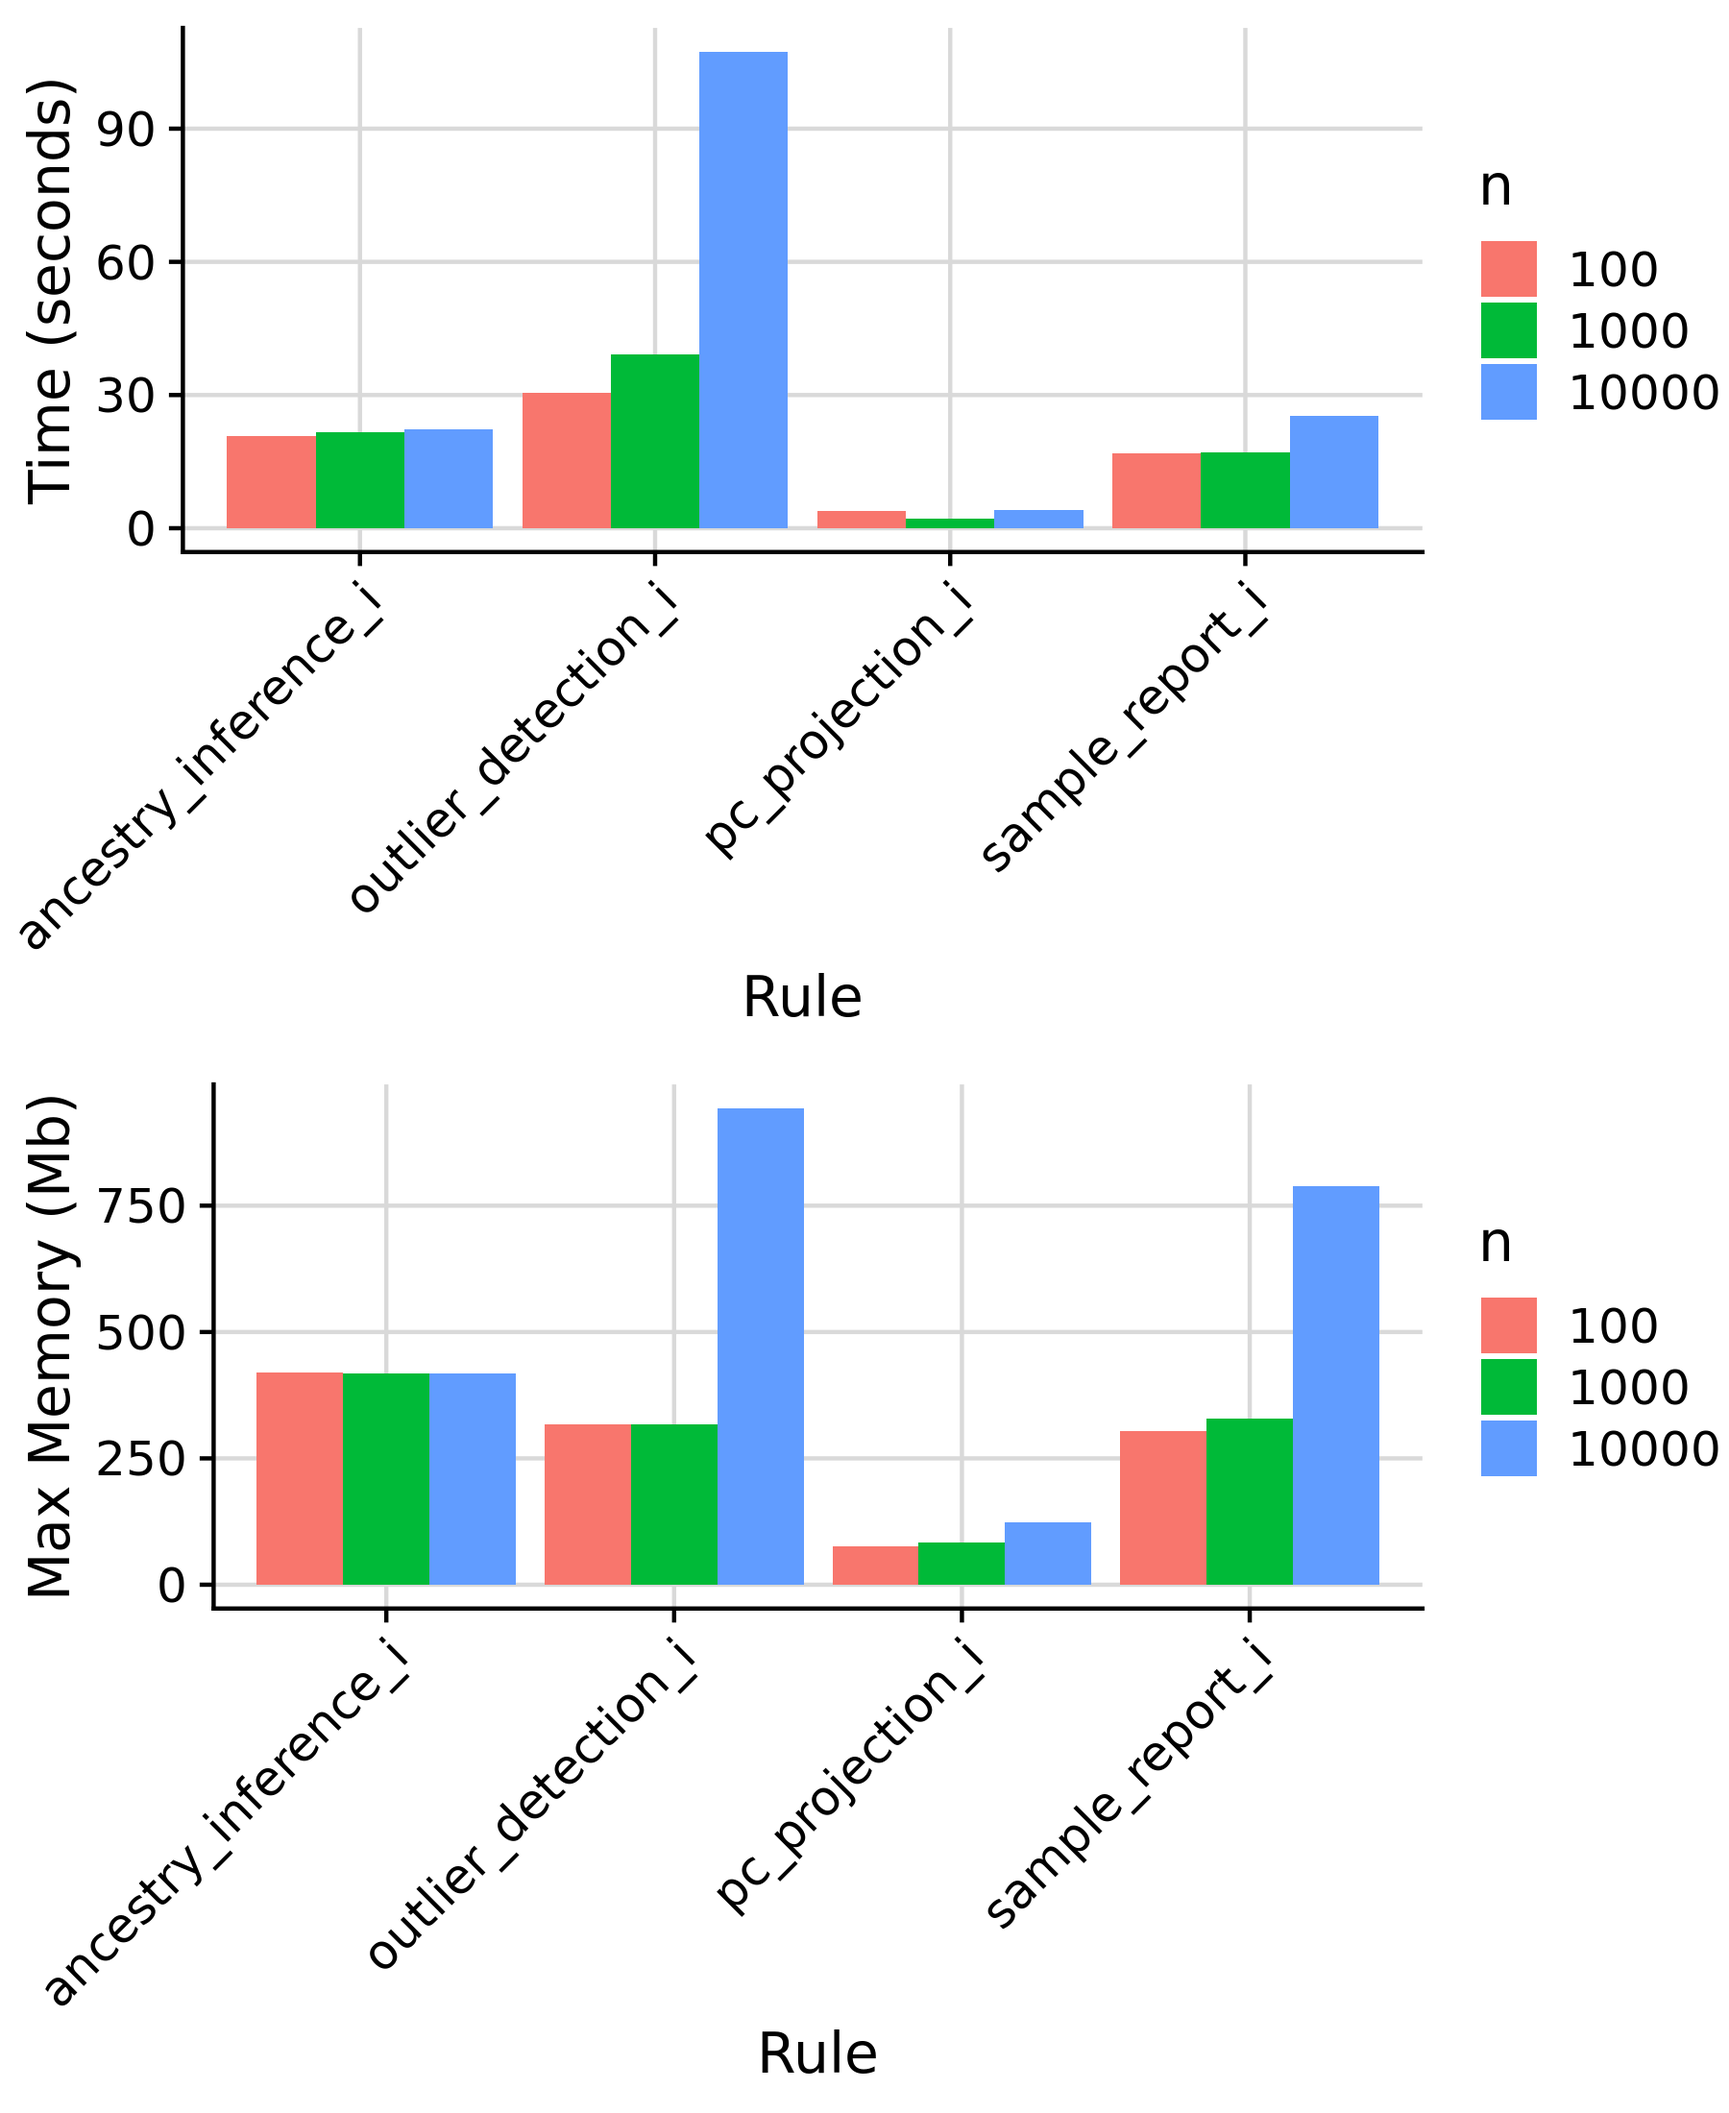
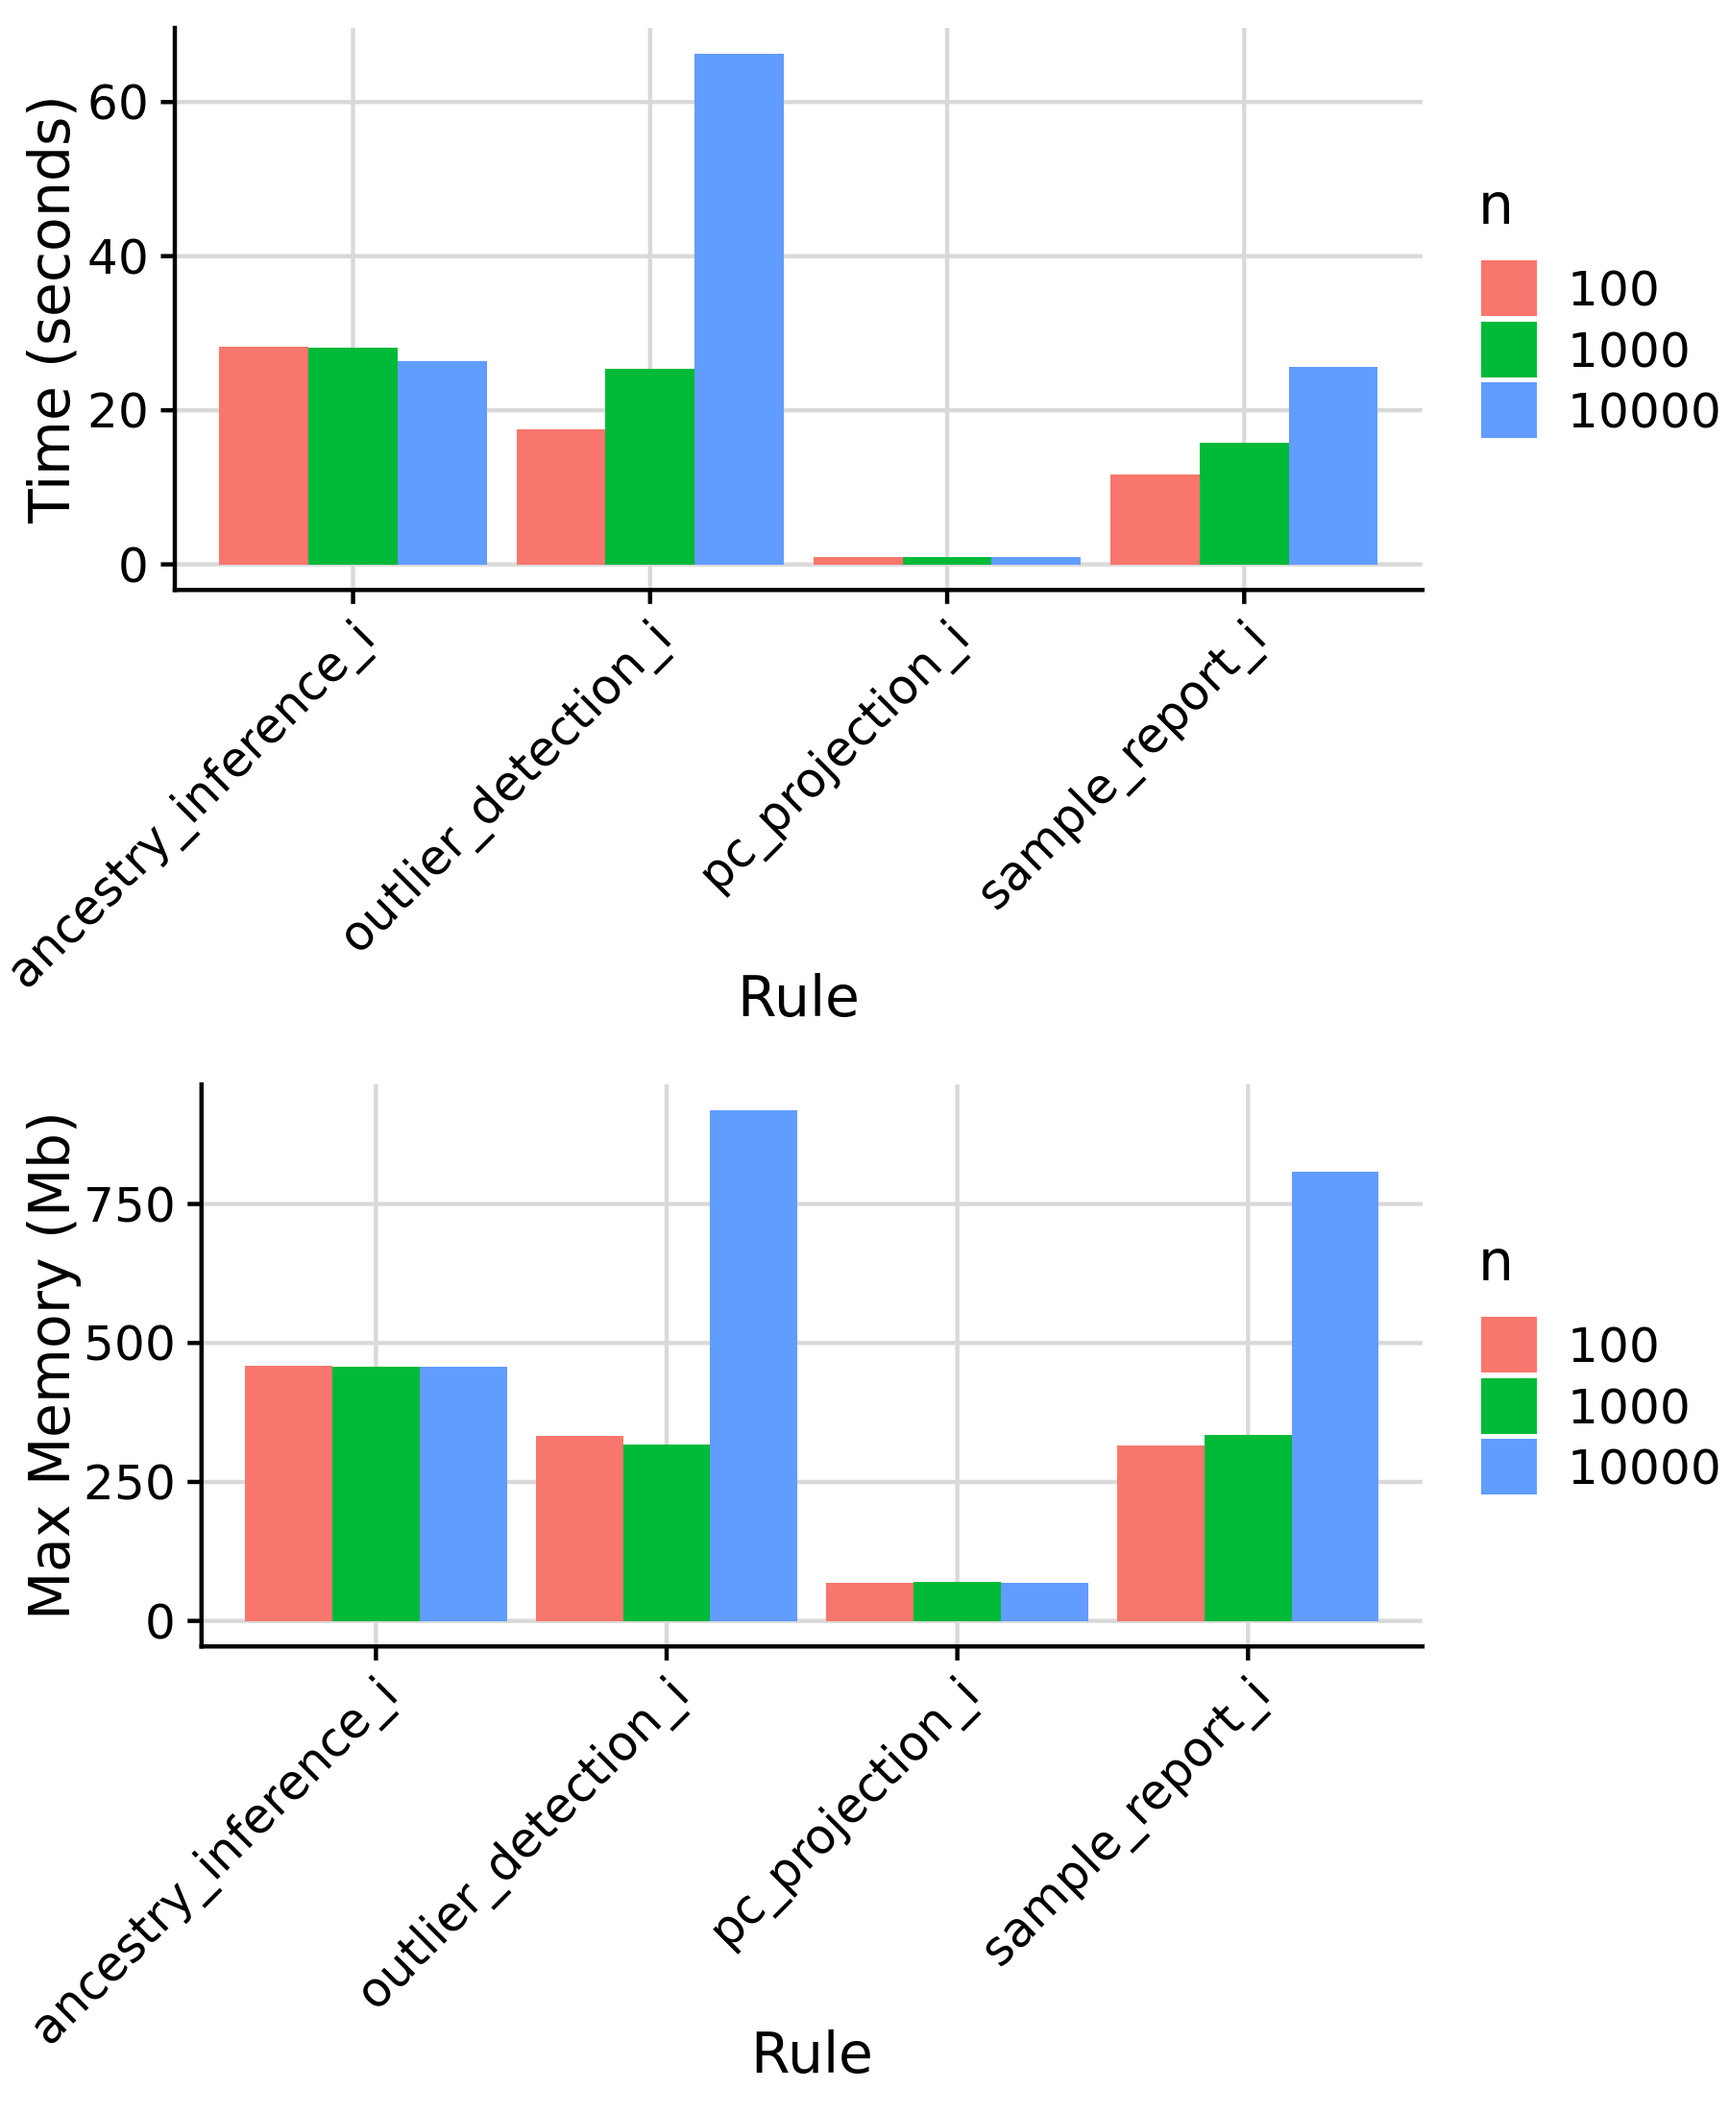
Updated computational benchmarks using new target scoring setup

diff --git a/docs/pipeline_benchmark.html b/docs/pipeline_benchmark.html
@@ -612,7 +612,10 @@ write.table(config, &#39;/users/k1806347/oliverpainfel/test/genopred_benchmark/i
 </div>
 <div id="run-pipeline" class="section level1">
 <h1>Run pipeline</h1>
-<pre class="bash"><code># N cores = 1
+<pre class="bash"><code>git describe --tags 
+#v2.2.5-4-ge70ffe7
+
+# N cores = 1
 snakemake --profile slurm -n --config ncores=1 --configfile=/users/k1806347/oliverpainfel/test/genopred_benchmark/input_data/config_ncores1.yaml --use-conda output_all pc_projection outlier_detection
 
 # N cores = 5
@@ -741,6 +744,42 @@ for (rule_i in c(
 }
 
 ####
+# Split by ncores and n
+####
+
+# Sum across populations for each type
+
+for (rule_i in c(
+  &#39;target_pgs_i&#39;
+)) {
+  bm_dat_all_tmp &lt;-
+    bm_dat_all[bm_dat_all$rule == rule_i, ]
+
+    for (n_i in unique(bm_dat_all_tmp$n)) {
+      for (ncores_i in unique(bm_dat_all_tmp$ncores)){
+        bm_dat_all_tmp_2 &lt;-
+          bm_dat_all_tmp[bm_dat_all_tmp$ncores == ncores_i &amp; bm_dat_all_tmp$n == n_i, ]
+        for (type_i in unique(bm_dat_all_tmp$type)) {
+          bm_dat_all_tmp_2$s[bm_dat_all_tmp_2$type == type_i]&lt;-sum(bm_dat_all_tmp_2$s[bm_dat_all_tmp_2$type == type_i])
+        }
+        
+        tmp &lt;- data.table(
+          ncores = ncores_i,
+          rule = rule_i,
+          type = &#39;any&#39;,
+          n = n_i,
+          pgs_method = &#39;all&#39;,
+          mean_time = mean(bm_dat_all_tmp_2$s),
+          max_time = max(bm_dat_all_tmp_2$s),
+          mean_mem = mean(bm_dat_all_tmp_2$max_rss),
+          max_mem = max(bm_dat_all_tmp_2$max_rss)
+        )
+        bm_dat_summary &lt;- rbind(bm_dat_summary, tmp)
+      }
+    }
+  }
+
+####
 # no split
 ####
 
@@ -825,36 +864,6 @@ for (rule_i in c(&#39;ancestry_inference_i&#39;,&#39;ancestry_reporter&#39;,&#39
   }
 }
 
-####
-# split by method, n
-####
-
-for (rule_i in c(&#39;target_pgs_i&#39;)) {
-  bm_dat_all_tmp &lt;-
-    bm_dat_all[bm_dat_all$rule == rule_i, ]
-  for (n_i in unique(bm_dat_all_tmp$n)) {
-    for (method_i in unique(bm_dat_all_tmp$pgs_method)) {
-      bm_dat_all_tmp2 &lt;-
-        bm_dat_all_tmp[
-          bm_dat_all_tmp$n == n_i &amp;
-          bm_dat_all_tmp$pgs_method == method_i, ]
-      
-      tmp &lt;- data.table(
-        ncores = &#39;any&#39;,
-        rule = rule_i,
-        type = &#39;any&#39;,
-        n = n_i,
-        pgs_method = method_i,
-        mean_time = mean(bm_dat_all_tmp2$s),
-        max_time = max(bm_dat_all_tmp2$s),
-        mean_mem = mean(bm_dat_all_tmp2$max_rss),
-        max_mem = max(bm_dat_all_tmp2$max_rss)
-      )
-      bm_dat_summary &lt;- rbind(bm_dat_summary, tmp)
-    }
-  }
-}
-
 #################
 # Plot
 #################
@@ -893,6 +902,34 @@ pgs_method_mem &lt;-
 
 png(&#39;Images/Benchmark/pgs_methods.png&#39;, res = 300, width = 1800, height = 1800, units = &#39;px&#39;)
   plot_grid(pgs_method_time, pgs_method_mem, nrow=2)
+dev.off()
+
+####
+# split by ncores and n
+####
+
+bm_dat_summary_i &lt;- bm_dat_summary[bm_dat_summary$rule %in% c(
+    &#39;target_pgs_i&#39;
+  ),]
+
+target_pgs_time &lt;-
+  ggplot(bm_dat_summary_i, aes(x = n, y = mean_time, fill = ncores)) +
+  geom_bar(stat = &quot;identity&quot;, position = &quot;dodge&quot;) +
+  labs(x = &quot;N&quot;, y = &quot;Time (seconds)&quot;, fill=&#39;Cores&#39;) +
+  theme_half_open() +
+  background_grid() +
+  theme(axis.text.x = element_text(angle = 45, hjust = 1))
+
+target_pgs_mem &lt;-
+  ggplot(bm_dat_summary_i, aes(x = n, y = max_mem, fill = ncores)) +
+  geom_bar(stat = &quot;identity&quot;, position=&quot;dodge&quot;) +
+  labs(x = &quot;N&quot;, y = &quot;Max Memory (Mb)&quot;, fill=&#39;Cores&#39;) +
+  theme_half_open() +
+  background_grid() +
+  theme(axis.text.x = element_text(angle = 45, hjust = 1))
+
+png(&#39;Images/Benchmark/target_pgs.png&#39;, res = 300, width = 1800, height = 1800, units = &#39;px&#39;)
+  plot_grid(target_pgs_time, target_pgs_mem, nrow=2)
 dev.off()
 
 ####
@@ -983,36 +1020,7 @@ n_split_mem &lt;-
 
 png(&#39;Images/Benchmark/n_split.png&#39;, res = 300, width = 1800, height = 2200, units = &#39;px&#39;)
   plot_grid(n_split_time, n_split_mem, nrow=2)
-dev.off()
-
-####
-# split by method, n
-####
-
-bm_dat_summary_i &lt;-
-  bm_dat_summary[bm_dat_summary$rule %in% c(
-    &#39;target_pgs_i&#39;
-  ), ]
-
-n_method_split_time &lt;- 
-  ggplot(bm_dat_summary_i, aes(x = pgs_method , y = mean_time, fill = n)) +
-  geom_bar(stat = &quot;identity&quot;, position=&quot;dodge&quot;) +
-  labs(x = &quot;PGS Method&quot;, y = &quot;Time (seconds)&quot;, fill = &#39;N&#39;) +
-  theme_half_open() +
-  background_grid() +
-  theme(axis.text.x = element_text(angle = 45, hjust = 1))
-
-n_method_split_mem &lt;- 
-  ggplot(bm_dat_summary_i, aes(x = pgs_method , y = max_mem, fill = n)) +
-  geom_bar(stat = &quot;identity&quot;, position=&quot;dodge&quot;) +
-  labs(x = &quot;PGS Method&quot;, y = &quot;Max Memory (Mb)&quot;, fill = &#39;N&#39;) +
-  theme_half_open() +
-  background_grid() +
-  theme(axis.text.x = element_text(angle = 45, hjust = 1))
-
-png(&#39;Images/Benchmark/n_method_split.png&#39;, res = 300, width = 1800, height = 1800, units = &#39;px&#39;)
-  plot_grid(n_method_split_time, n_method_split_mem, nrow=2)
-dev.off()  </code></pre>
+dev.off()</code></pre>
 </details>
 <hr />
 </div>
@@ -1033,9 +1041,27 @@ Show PGS Methods
 </div>
 </div>
 <div class="note-box">
-<p><strong>Note:</strong> SBayesR would capitalise on multiple cores
-when running on multiple chromosomes. pT+clump and DBSLMM are not
+<p><strong>Note:</strong> SBayesR and DBSLMM would capitalise on
+multiple cores when running on multiple chromosomes. pT+clump is not
 implemented in parallel, since they are already fast.</p>
+</div>
+</details>
+<details>
+<summary>
+Show target scoring
+</summary>
+<div class="centered-container">
+<div class="rounded-image-container" style="width: 50%;">
+<div class="figure">
+<img src="Images/Benchmark/target_pgs.png" alt="" />
+<p class="caption">Rules affected by N cores and target sample size</p>
+</div>
+</div>
+</div>
+<div class="note-box">
+<p><strong>Note:</strong> target_pgs_i resources vary according to the
+number of pgs_methods and scores requested. In this benchmark, 4586
+scores were computed for each individual.</p>
 </div>
 </details>
 <details>
@@ -1062,23 +1088,6 @@ Show rules affected by N
 <p class="caption">Rules affected by target sample size</p>
 </div>
 </div>
-</div>
-</details>
-<details>
-<summary>
-Show rules affected by N and PGS method (target_scoring_i)
-</summary>
-<div class="centered-container">
-<div class="rounded-image-container" style="width: 50%;">
-<div class="figure">
-<img src="Images/Benchmark/n_method_split.png" alt="" />
-<p class="caption">Rules affected by target sample size</p>
-</div>
-</div>
-</div>
-<div class="note-box">
-<p><strong>Note:</strong> Performance varies by PGS method due to the
-number of scores each method produces.</p>
 </div>
 </details>
 <details>
@@ -1134,8 +1143,8 @@ Show PGS methods benchmark
 </div>
 </div>
 <div class="note-box">
-<p><strong>Note:</strong> pT+clump and DBSLMM are run using 1 core. All
-other methods are run using 10 cores.</p>
+<p><strong>Note:</strong> pT+clump is run using 1 core. All other
+methods are run using 10 cores.</p>
 </div>
 </details>
 </div>
